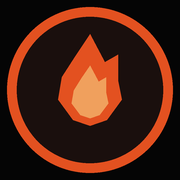
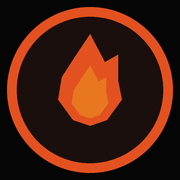
fix: un solo mensaje de WhatsApp, y el corazon de la llama deja de verse lavado
EL MENSAJE ESTABA EN CUATRO SITIOS. Navbar, ubicacion, barra lateral y pie
armaban cada uno su texto a mano, asi que al cambiarlo uno se quedo atras y
seguia mandando "tengo una consulta" mientras los demas ya mandaban el de
contacto. Ahora sale de `mensajeConsulta()` en negocio.ts, que ademas conmuta
con `modoMuestra`. Verificado contra la pagina servida: un unico enlace.

EL LOGO SE VEIA AMARILLO. El corazon de la llama usaba `acento-claro`
(#F0A05D), un salmon palido: a 40px en el navbar el emblema se leia lavado en
vez de como fuego. Pasa al naranja intermedio (#E8771F).

Changed region(s): [[0.3889, 0.3611, 0.6111, 0.6667]]

diff --git a/src/shared/components/layout/Footer.tsx b/src/shared/components/layout/Footer.tsx
@@ -1,7 +1,7 @@
 import Link from "next/link";
 import Image from "next/image";
 import { Contenedor } from "@/shared/components/ui/Contenedor";
-import { negocio, enlaceWhatsApp } from "@/shared/config/negocio";
+import { enlaceWhatsApp, mensajeConsulta, negocio } from "@/shared/config/negocio";
 import { BotonEnlace } from "@/shared/components/ui/Boton";
 import { IconoCarrito } from "@/shared/components/ui/Iconos";
 import { BotonCompartir, IconoCompartir } from "@/shared/components/ui/BotonCompartir";
@@ -50,7 +50,7 @@ export function Footer() {
               {negocio.ciudad}, {negocio.provincia}
             </address>
             <a
-              href={enlaceWhatsApp()}
+              href={enlaceWhatsApp(mensajeConsulta())}
               target="_blank"
               rel="noopener noreferrer"
               className="mt-3 inline-block text-sm font-semibold text-acento-alt hover:underline"

diff --git a/src/shared/components/layout/BarraSocial.tsx b/src/shared/components/layout/BarraSocial.tsx
@@ -5,7 +5,12 @@ import {
   IconoWhatsApp,
   IconoMapa,
 } from "@/shared/components/ui/Iconos";
-import { enlaceMapa, enlaceWhatsApp, negocio } from "@/shared/config/negocio";
+import {
+  enlaceMapa,
+  enlaceWhatsApp,
+  mensajeConsulta,
+  negocio,
+} from "@/shared/config/negocio";
 import { BotonCompartir, IconoCompartir } from "@/shared/components/ui/BotonCompartir";
 
 /**
@@ -28,11 +33,7 @@ const redes = [
       desde aqui o desde alla llegue igual.
     */
     nombre: "WhatsApp",
-    href: enlaceWhatsApp(
-      negocio.modoMuestra
-        ? negocio.mensajeContacto
-        : `Hola ${negocio.nombre}, quiero hacer un pedido.`,
-    ),
+    href: enlaceWhatsApp(mensajeConsulta()),
     Icono: IconoWhatsApp,
   },
   { nombre: "Instagram", href: negocio.instagram, Icono: IconoInstagram },

diff --git a/src/shared/components/layout/Navbar.tsx b/src/shared/components/layout/Navbar.tsx
@@ -7,7 +7,7 @@ import { usePathname } from "next/navigation";
 import { Contenedor } from "@/shared/components/ui/Contenedor";
 import { BotonEnlace } from "@/shared/components/ui/Boton";
 import { useNavbarOculto } from "@/shared/lib/useNavbarOculto";
-import { negocio, enlaceWhatsApp } from "@/shared/config/negocio";
+import { enlaceWhatsApp, mensajeConsulta, negocio } from "@/shared/config/negocio";
 import { SwitchVista } from "./SwitchVista";
 
 const enlaces = [
@@ -130,7 +130,7 @@ export function Navbar() {
             </Link>
           ))}
           <BotonEnlace
-            href={enlaceWhatsApp(`Hola ${negocio.nombre}, tengo una consulta.`)}
+            href={enlaceWhatsApp(mensajeConsulta())}
             variante="contorno"
             tamano="lg"
             className="mt-2 w-full"

diff --git a/src/features/landing/components/Ubicacion.tsx b/src/features/landing/components/Ubicacion.tsx
@@ -1,7 +1,7 @@
 import { Seccion } from "@/shared/components/ui/Seccion";
 import { BotonEnlace } from "@/shared/components/ui/Boton";
 import { IconoWhatsApp, IconoCarrito } from "@/shared/components/ui/Iconos";
-import { negocio, enlaceWhatsApp } from "@/shared/config/negocio";
+import { enlaceWhatsApp, mensajeConsulta, negocio } from "@/shared/config/negocio";
 import { MapaLocal } from "./MapaLocal";
 
 export function Ubicacion() {
@@ -52,7 +52,7 @@ export function Ubicacion() {
               Hacer pedido
             </BotonEnlace>
             <BotonEnlace
-              href={enlaceWhatsApp(`Hola ${negocio.nombre}, tengo una consulta.`)}
+              href={enlaceWhatsApp(mensajeConsulta())}
               variante="contorno"
               tamano="lg"
             >

diff --git a/src/shared/config/negocio.ts b/src/shared/config/negocio.ts
@@ -168,3 +168,16 @@ export function enlaceMapa(): string {
   const consulta = encodeURIComponent(`${negocio.nombre} ${negocio.ciudad}`);
   return `https://www.google.com/maps/search/?api=1&query=${consulta}`;
 }
+
+/**
+ * El texto por defecto de TODOS los botones de WhatsApp del sitio.
+ *
+ * Centralizado a proposito: estaba escrito a mano en el navbar, en ubicacion y
+ * en la barra lateral, asi que al cambiar el mensaje habia que acordarse de
+ * tres sitios — y uno se quedo atras.
+ */
+export function mensajeConsulta(): string {
+  return negocio.modoMuestra
+    ? negocio.mensajeContacto
+    : `Hola ${negocio.nombre}, tengo una consulta.`;
+}

diff --git a/scripts/marca.py b/scripts/marca.py
@@ -23,7 +23,10 @@ DESTINO = "public/marca"
 NEGRO = (5, 5, 5)
 SUPERFICIE = (26, 15, 13)
 NARANJA = (227, 81, 32)
-NARANJA_CLARO = (240, 160, 93)
+# El corazon de la llama va en el naranja INTERMEDIO, no en `acento-claro`.
+# Con el claro (#F0A05D) el centro salia salmon palido y a 40px el emblema se
+# leia amarillento y lavado, no como fuego.
+NARANJA_MEDIO = (232, 119, 31)
 BLANCO = (255, 253, 252)
 TEXTO_SUAVE = (217, 201, 194)
 
@@ -71,7 +74,7 @@ def emblema(tam: int) -> Image.Image:
     d.ellipse([m, m, t - m, t - m], fill=SUPERFICIE, outline=NARANJA, width=int(t * 0.055))
     llama(d, t / 2, t * 0.46, t * 0.52, NARANJA)
     # La segunda llama, mas chica y clara, da el corazon de la brasa.
-    llama(d, t / 2, t * 0.52, t * 0.30, NARANJA_CLARO)
+    llama(d, t / 2, t * 0.52, t * 0.30, NARANJA_MEDIO)
     return im.resize((tam, tam), Image.LANCZOS)
 
 
@@ -87,7 +90,7 @@ def open_graph() -> Image.Image:
         t = max(0.0, (y - h * 0.45) / (h * 0.55))
         d.line([(0, y), (w, y)], fill=(int(5 + 38 * t * t), int(5 + 13 * t * t), int(5 + 7 * t * t)))
     llama(d, w * 0.155, h * 0.46, h * 0.40, NARANJA)
-    llama(d, w * 0.155, h * 0.52, h * 0.23, NARANJA_CLARO)
+    llama(d, w * 0.155, h * 0.52, h * 0.23, NARANJA_MEDIO)
     d.text((w * 0.285, h * 0.40), NOMBRE, font=ImageFont.truetype(TITULAR, int(h * 0.155)), fill=BLANCO, anchor="lm")
     d.text((w * 0.285, h * 0.56), TAGLINE, font=ImageFont.truetype(TITULAR, int(h * 0.062)), fill=NARANJA, anchor="lm")
     d.text((w * 0.285, h * 0.68), CIUDAD, font=ImageFont.truetype(CUERPO, int(h * 0.045)), fill=TEXTO_SUAVE, anchor="lm")
